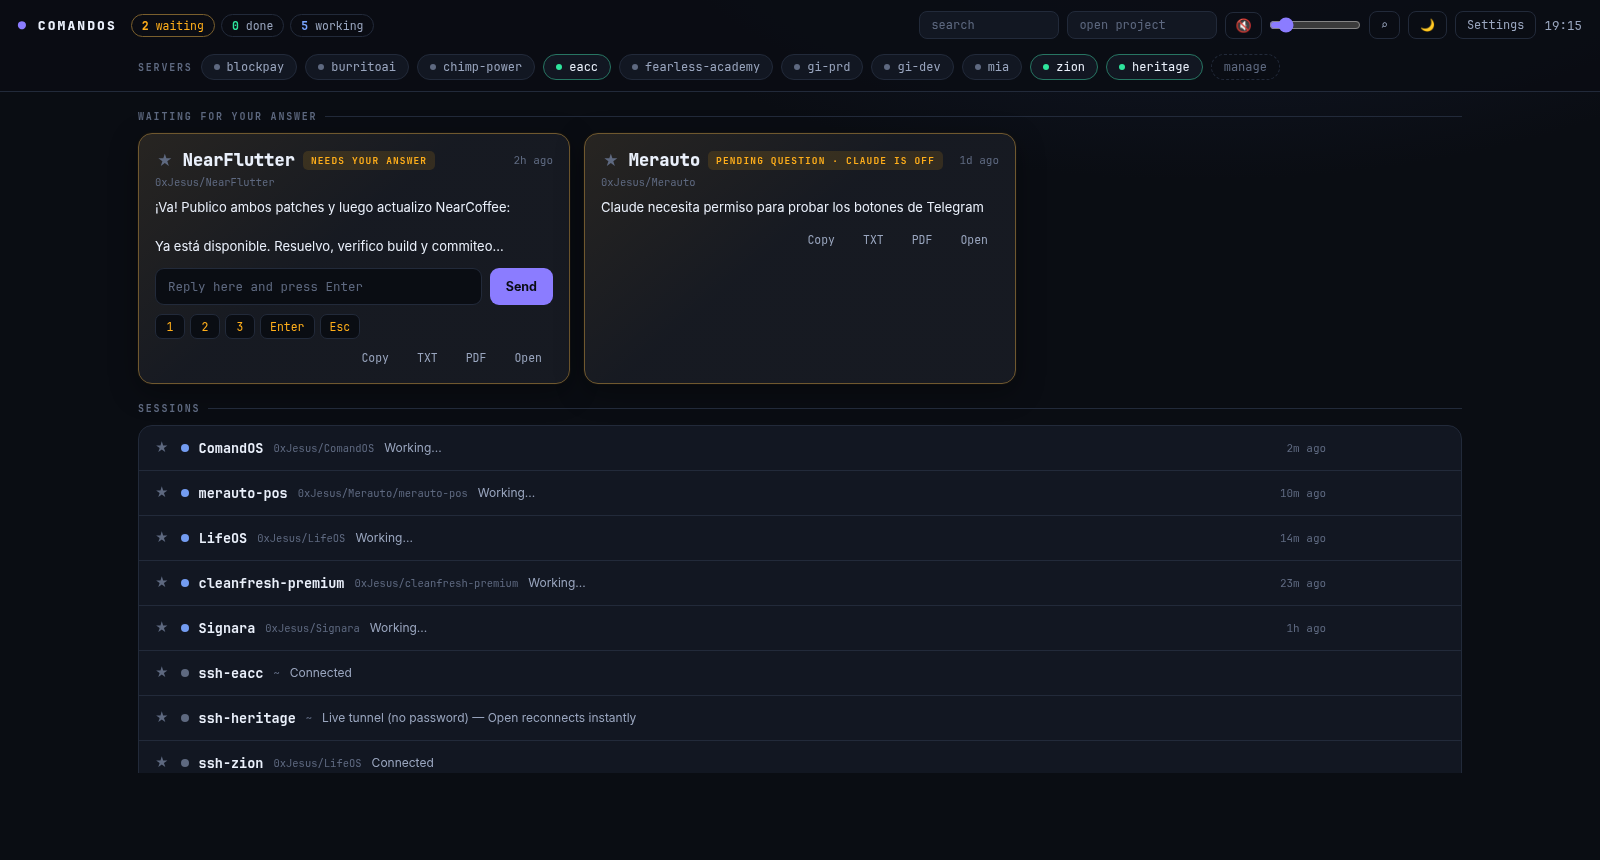
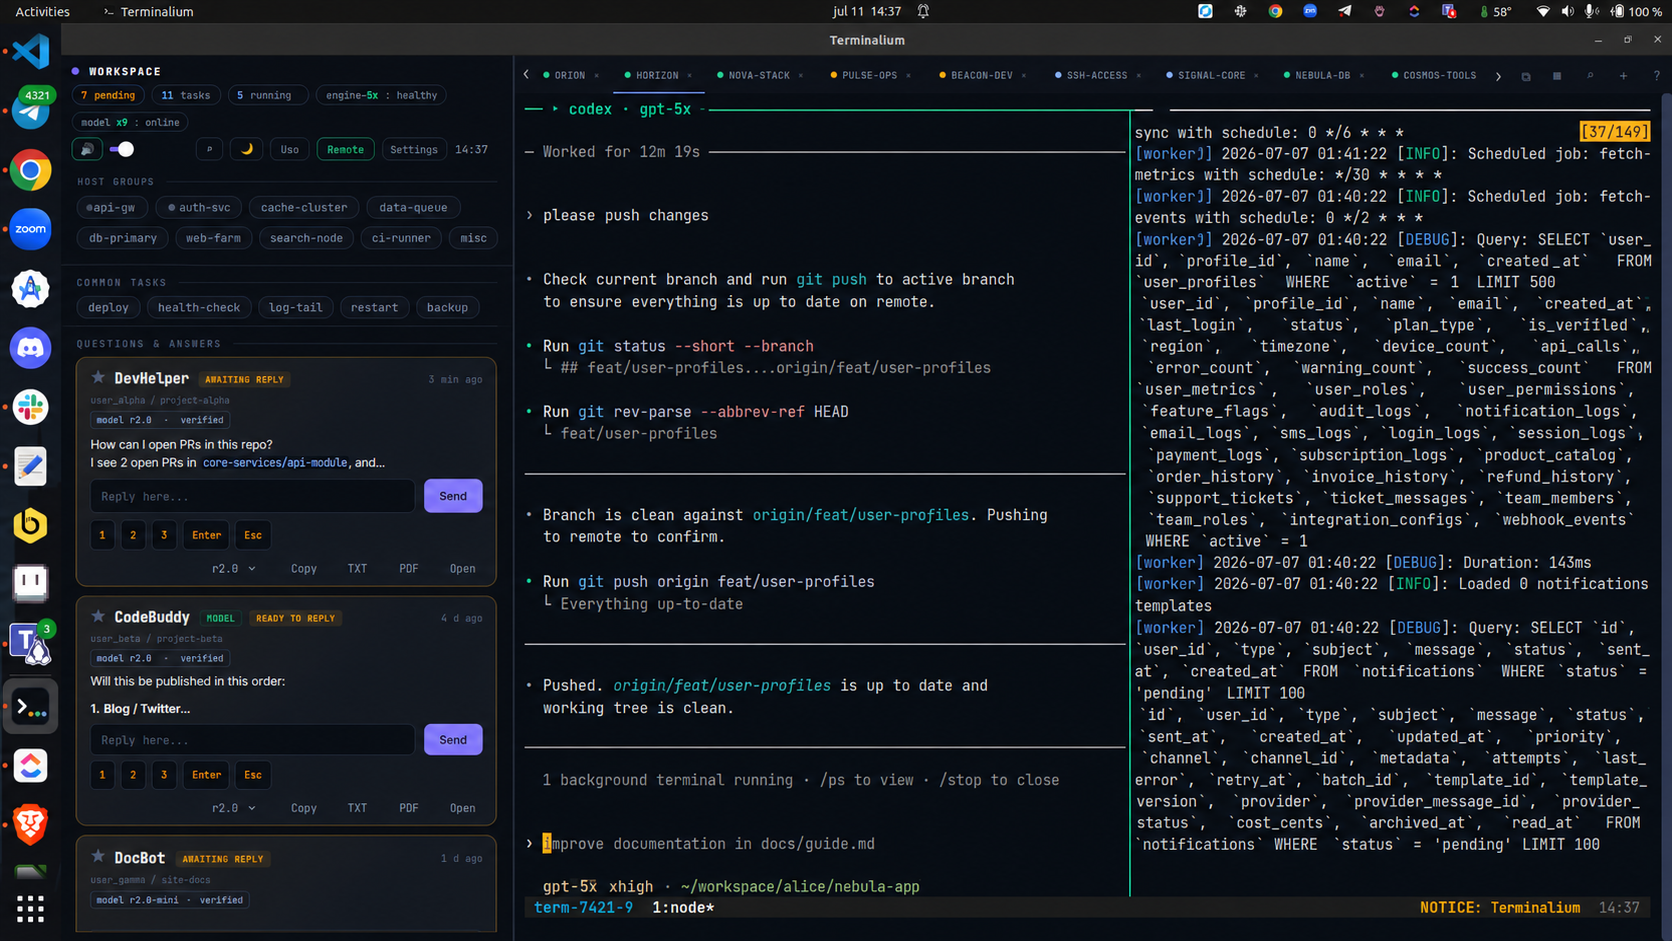
Drop files onto terminals to paste their paths, refresh hero image
Dropping files or folders from the file manager onto any app terminal
now pastes their shell-quoted paths at the prompt (multiple selections
join with spaces; non-file URIs paste as URLs) — nothing executes, the
text waits for Enter, matching GNOME Terminal behavior. The README hero
screenshot is refreshed to the current UI.

diff --git a/tests/test_desktop_tabs.py b/tests/test_desktop_tabs.py
@@ -129,6 +129,16 @@ def test_tab_scroll_arrows_have_padding():
     assert "padding" in arrow_rule and "margin" in arrow_rule
 
 
+def test_terminals_paste_file_paths_on_drop():
+    # Soltar archivos en una terminal pega sus rutas shell-quoted (nunca ejecuta)
+    src = SRC
+    assert "add_uri_targets" in src
+    assert "drag-data-received" in src
+    assert "shlex.quote" in src
+    assert 'pu.scheme == "file"' in src
+    assert "feed_child" in src
+
+
 def test_raise_main_window_uses_keep_above_pulse_for_gnome():
     src = function_source("raise_main_window")
     assert "set_keep_above(True)" in src
@@ -137,6 +147,7 @@ def test_raise_main_window_uses_keep_above_pulse_for_gnome():
 
 
 if __name__ == "__main__":
+    test_terminals_paste_file_paths_on_drop()
     test_remote_close_requests_skip_confirm()
     test_tab_labels_are_saved_in_visual_notebook_order()
     test_notebook_tabs_are_reorderable_and_saved_after_drag()
